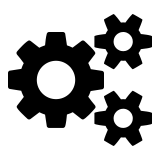
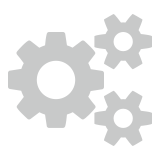
替换图标,添加config

diff --git a/index.html b/index.html
@@ -11,7 +11,7 @@
 <body>
 <header class="container">
     <div class="row">
-    <div class="logo col-md-1 col-lg-1 col-md-offset-1 col-md-offset-1 col-xs-2"><img src="img/logo_black.png"></div><div  class=" col-md-3 col-xs-8"><span class="company-name">正因科技</span><span>.及时云（Beta）</span></div>
+    <div class="logo col-md-1 col-lg-1 col-md-offset-1 col-md-offset-1 col-xs-2"><img src="img/logo_black.png" id="logo-b"></div><div  class=" col-md-3 col-xs-8"><span class="company-name">正因科技</span><span>.及时云（Beta）</span></div>
     <div class="col-md-3 col-md-offset-4 col-xs-2 container">
         <div class="row">
             <span id="log-in" class="col-md-3 col-md-offset-4 col-xs-12"><a href="http://developer.j1st.io" target="_blank">登陆</a></span>
@@ -56,7 +56,7 @@
             <div class="row">
             <dl class="col-md-3 col-md-offset-1">
                 <dt>提供脑力</dt>
-                <dd id="th-img-1" class="th_img"><img src="img/left.png" style="width: 80px;height: 80px;"></dd>
+                <dd id="th-img-1" class="th_img"><img src="img/left.png"></dd>
                 <dd>成为ZE的攻城狮</dd>
                 <dd>或者</dd>
                 <dd>写一段代码特地骄傲一下</dd>
@@ -88,5 +88,7 @@
     </div>
 </div>
 <footer><p>© 2016 Zeninfor Co.,Ltd&nbsp&nbsp&nbsp沪ICP备16017154号-1</p><img src="img/logo_w.png"></footer>
+<script src="http://cdn.bootcss.com/jquery/2.2.4/jquery.min.js"></script>
+<script src="js/config.js"></script>
 </body>
 </html>

diff --git a/style/main.css b/style/main.css
@@ -16,6 +16,10 @@ header{
     background: #e79330;
     font-size: 13pt;
 }
+#logo-b{
+    width: 44px;
+    height: 44px;
+}
 .adver-img{
     height: 360px;
     border-bottom:1px solid #d5d5d5;
@@ -118,22 +122,29 @@ header .company-name{
     margin-top: 10%;
 }
 #th-img #img-3{
-    margin-top:18px ;
+
 }
 #th-img .th_img{
     display: block;
     width: 80px;
     margin:0 auto;
-    margin-top: 18%;
-    margin-bottom: 18%;
+    margin-top: 14%;
+    margin-bottom: 14%;
+}
+#th-img .th_img img{
+    width: 80px;
+    height: 80px;
 }
 #th-img dd{
     display:block;
-    margin:5% auto;
+    margin:2% auto;
     width: 200px;
     text-align: center;
     font-size: 11pt;
     color: #717071;
+}
+#th-img .row{
+    padding-left:6%;
 }
 #register-div{
     background: #595757;
@@ -153,6 +164,9 @@ header .company-name{
     border-radius: 10px;
     letter-spacing: 1px;
     font-weight: normal;
+}
+.register-button a{
+    color: #fff;
 }
 #about-us{
     width: 65%;
@@ -174,9 +188,16 @@ footer{
     padding-top: 2%;
 }
 footer img{
+    width: 44px;
+    height: 44px;
     display: block;
     margin-top: 2%;
     margin-left:3%;
+}
+@media screen and (min-width: 769px){
+    #about-us .col-xs-offset-2{
+        margin-left: 3%;
+    }
 }
 /*phone*/
 @media screen and (max-width: 768px){

diff --git a/js/config.js b/js/config.js
@@ -1,0 +1,15 @@
+var winHeight=window.screen.height;
+var winWidth=window.screen.width;
+var imgContainer=$(".adver-img-container");
+var header=$("header");
+window.onload=function () {
+    if(winWidth<768){
+        imgContainer.css("height",winHeight*706/777);
+        header.css("line-height",(winHeight*71/777)+"px");
+        header.css("height",winHeight*71/777);
+        $("#bottom-adver-img").css("height",winHeight*706/777)
+    }
+
+}
+
+
